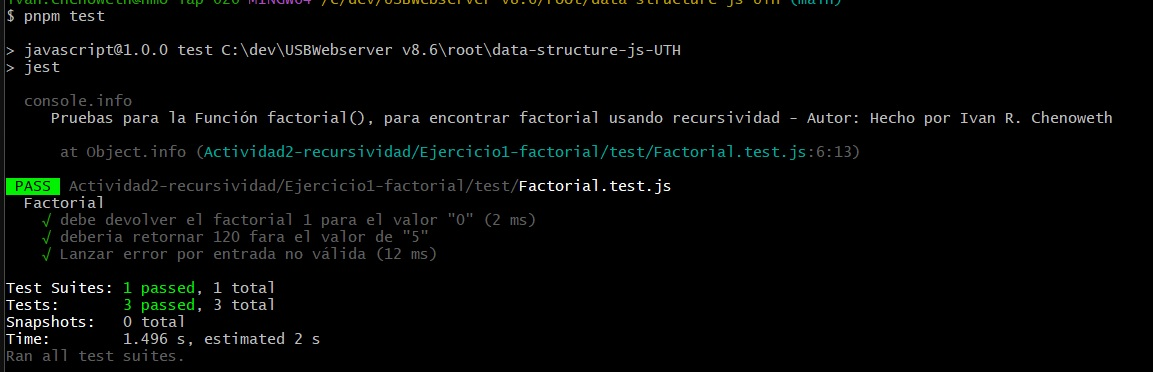
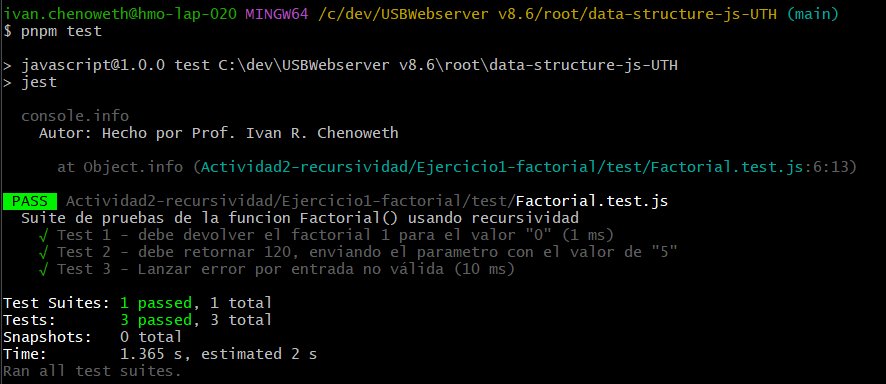
Update image

diff --git a/Actividad2-recursividad/Ejercicio1-factorial/test/Factorial.test.js b/Actividad2-recursividad/Ejercicio1-factorial/test/Factorial.test.js
@@ -1,20 +1,20 @@
 import { factorial } from '../Factorial'
 
-describe('Factorial', () => {
+describe('Suite de pruebas de la funcion Factorial() usando recursividad', () => {
 
   beforeAll(() => {
-    console.info(' Pruebas para la Función factorial(), para encontrar factorial usando recursividad - Autor: Hecho por Ivan R. Chenoweth');
+    console.info('Autor: Hecho por Prof. Ivan R. Chenoweth');
   })
 
-  it('debe devolver el factorial 1 para el valor "0"', () => {
+  it('Test 1 - debe devolver el factorial 1 para el valor "0"', () => {
     expect(factorial(0)).toBe(1)
   })
 
-  it('deberia retornar 120 fara el valor de "5"', () => {
+  it('Test 2 - debe retornar 120, enviando el parametro con el valor de "5"', () => {
     expect(factorial(5)).toBe(120)
   })
 
-  it('Lanzar error por entrada no válida', () => {
+  it('Test 3 - Lanzar error por entrada no válida', () => {
     expect(() => factorial('-')).toThrow('No es un Entero')
     expect(() => factorial(null)).toThrow('No es un Entero')
     expect(() => factorial(undefined)).toThrow('No es un Entero')
